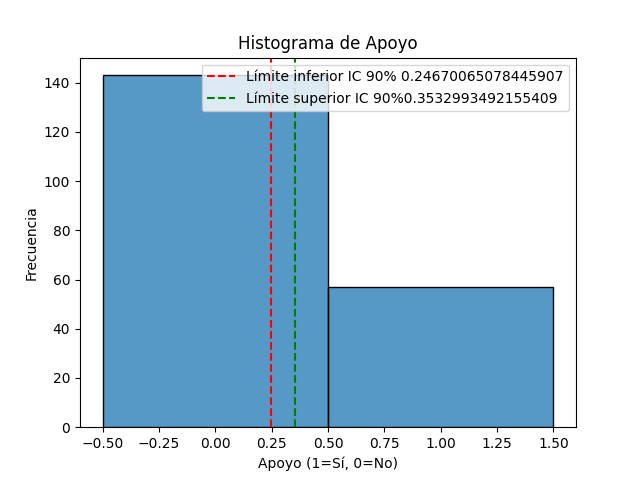
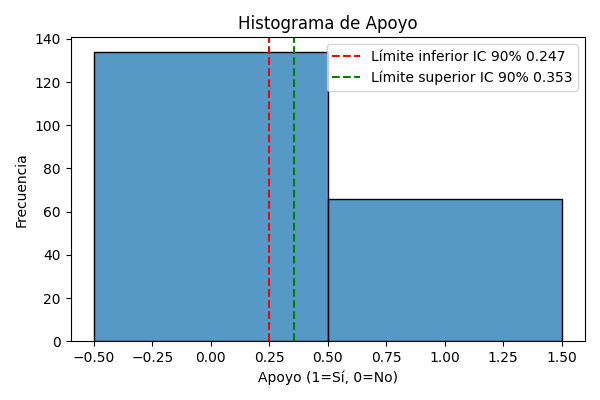
niveles confianza

diff --git a/modulo5/practica5_intervalo_proporcion.py b/modulo5/practica5_intervalo_proporcion.py
@@ -1,39 +1,44 @@
-# Ejercicio: Calcule un intervalo de confianza del 90% para 200
-# personas con 60 a favor de una política.
 import numpy as np
-import pandas as pd
-import seaborn as sns
 import matplotlib.pyplot as plt
 import scipy.stats as stats
+import os
 
-n= 200
-p_hat = 60/n
-z_critical = stats.norm.ppf(0.95)
+# Crear carpeta si no existe
+os.makedirs("graficas", exist_ok=True)
 
-#intervalo de confianza
-margin_error = z_critical * np.sqrt(p_hat * (1- p_hat)/n)
+# Datos base
+n = 200
+apoyan = 60
+p_hat = apoyan / n
+z_critical = stats.norm.ppf(0.95)  # 90% bilateral → z = 1.645 aprox
+
+# Calcular intervalo de confianza
+margin_error = z_critical * np.sqrt(p_hat * (1 - p_hat) / n)
 ci = (p_hat - margin_error, p_hat + margin_error)
-print(f"El intervalo de confianza del 90% para la proporción es: ({ci[0]:.3f}, {ci[1]:.3f})")
 
-#Visualizacion 
-# Simulamos datos binomiales para visualizar la proporción de apoyo
-data = pd.DataFrame({'apoyo': np.random.binomial(1, p_hat, n)})
+# Valores para gráfica
+no_apoyan = n - apoyan
 
-# Visualizamos la proporción de apoyo con un histograma
-sns.histplot(data['apoyo'], bins=2, discrete=True)
-plt.axvline(ci[0], color='red', linestyle='--', label=f'Límite inferior IC 90% {ci[0]}')
-plt.axvline(ci[1], color='green', linestyle='--', label=f'Límite superior IC 90%{ci[1]}')
-plt.legend()
-plt.title('Histograma de Apoyo')
-plt.xlabel('Apoyo (1=Sí, 0=No)')
-plt.ylabel('Frecuencia')
-plt.savefig('graficas/histograma_apoyo.png')
-plt.show()
+# Gráfico de barra en formato vertical
+fig, ax = plt.subplots(figsize=(5, 6))
 
-# Graficamos la proporción de apoyo
-sns.countplot(x='apoyo', data=data)
-plt.title('Distribución de Apoyo')
-plt.xlabel('Apoyo (1=Sí, 0=No)')
-plt.ylabel('Cantidad')
-plt.savefig('graficas/intervalo_proporcion.png')
+# Barras
+ax.bar(0, apoyan, color='green', label=f'Apoyo ({apoyan})')
+ax.bar(0, no_apoyan, bottom=apoyan, color='salmon', label=f'No Apoyo ({no_apoyan})')
+
+# Línea de proporción estimada
+ax.axhline(p_hat * n, color='blue', linestyle='--', label=f'Estimación: {p_hat:.2f}')
+ax.axhline(ci[0] * n, color='red', linestyle='--', label=f'Límite inferior IC: {ci[0]:.2f}')
+ax.axhline(ci[1] * n, color='darkblue', linestyle='--', label=f'Límite superior IC: {ci[1]:.2f}')
+
+# Estética
+ax.set_ylim(0, n)
+ax.set_xticks([0])
+ax.set_xticklabels(['Total 200 personas'])
+ax.set_ylabel('Cantidad de personas')
+ax.set_title('Apoyo a la política con intervalo de confianza del 90%')
+ax.legend(loc='upper center', bbox_to_anchor=(0.5, -0.15), ncol=2)
+
+plt.tight_layout()
+plt.savefig('graficas/barra_vertical_ic90.png')
 plt.show()

diff --git a/modulo5/practica5_niveles_confianza.py b/modulo5/practica5_niveles_confianza.py
@@ -1,0 +1,43 @@
+import numpy as np
+import matplotlib.pyplot as plt
+import scipy.stats as stats
+import os
+import pandas as pd
+
+# Calcule intervalos del 90%, 95% y 99% para 100 valores
+# con media 50 y s = 5.
+
+#Datos
+n = 100
+mean_sample =50
+std_sample = 5
+df = n -1
+conf_level = [0.90,0.95,0.99]
+cis= {}
+
+#intervalo de confianza
+for conf in conf_level:
+    t_critical = stats.t.ppf((1+conf)/2,df)
+    margin = t_critical * (std_sample/np.sqrt(n))
+    cis[conf] = (mean_sample -margin, mean_sample + margin)
+print("intervalo de confianza",cis)    
+
+#visualizacion
+color_map = {
+    0.90: 'blue',
+    0.95: 'orange',
+    0.99: 'purple' 
+}
+
+data = pd.DataFrame({'valor': np.random.normal(mean_sample,std_sample,n)})
+plt.hist(data['valor'], bins=20, alpha=0.7, color='skyblue', edgecolor='black')
+for conf, (lower, upper) in cis.items():
+    color = color_map.get(conf,'gray')
+    plt.axvline(lower, color=color, alpha=0.5,linestyle='--', label=f'{int(conf*100)}% IC lower')
+    plt.axvline(upper, color=color, linestyle='--', label=f'{int(conf*100)}% IC upper', alpha=0.5)
+plt.xlabel('Valor')
+plt.ylabel('Frecuencia')
+plt.title('Histograma con Intervalos de Confianza')
+plt.legend()
+plt.savefig('graficas/nivel_confianza.png')
+plt.show()
